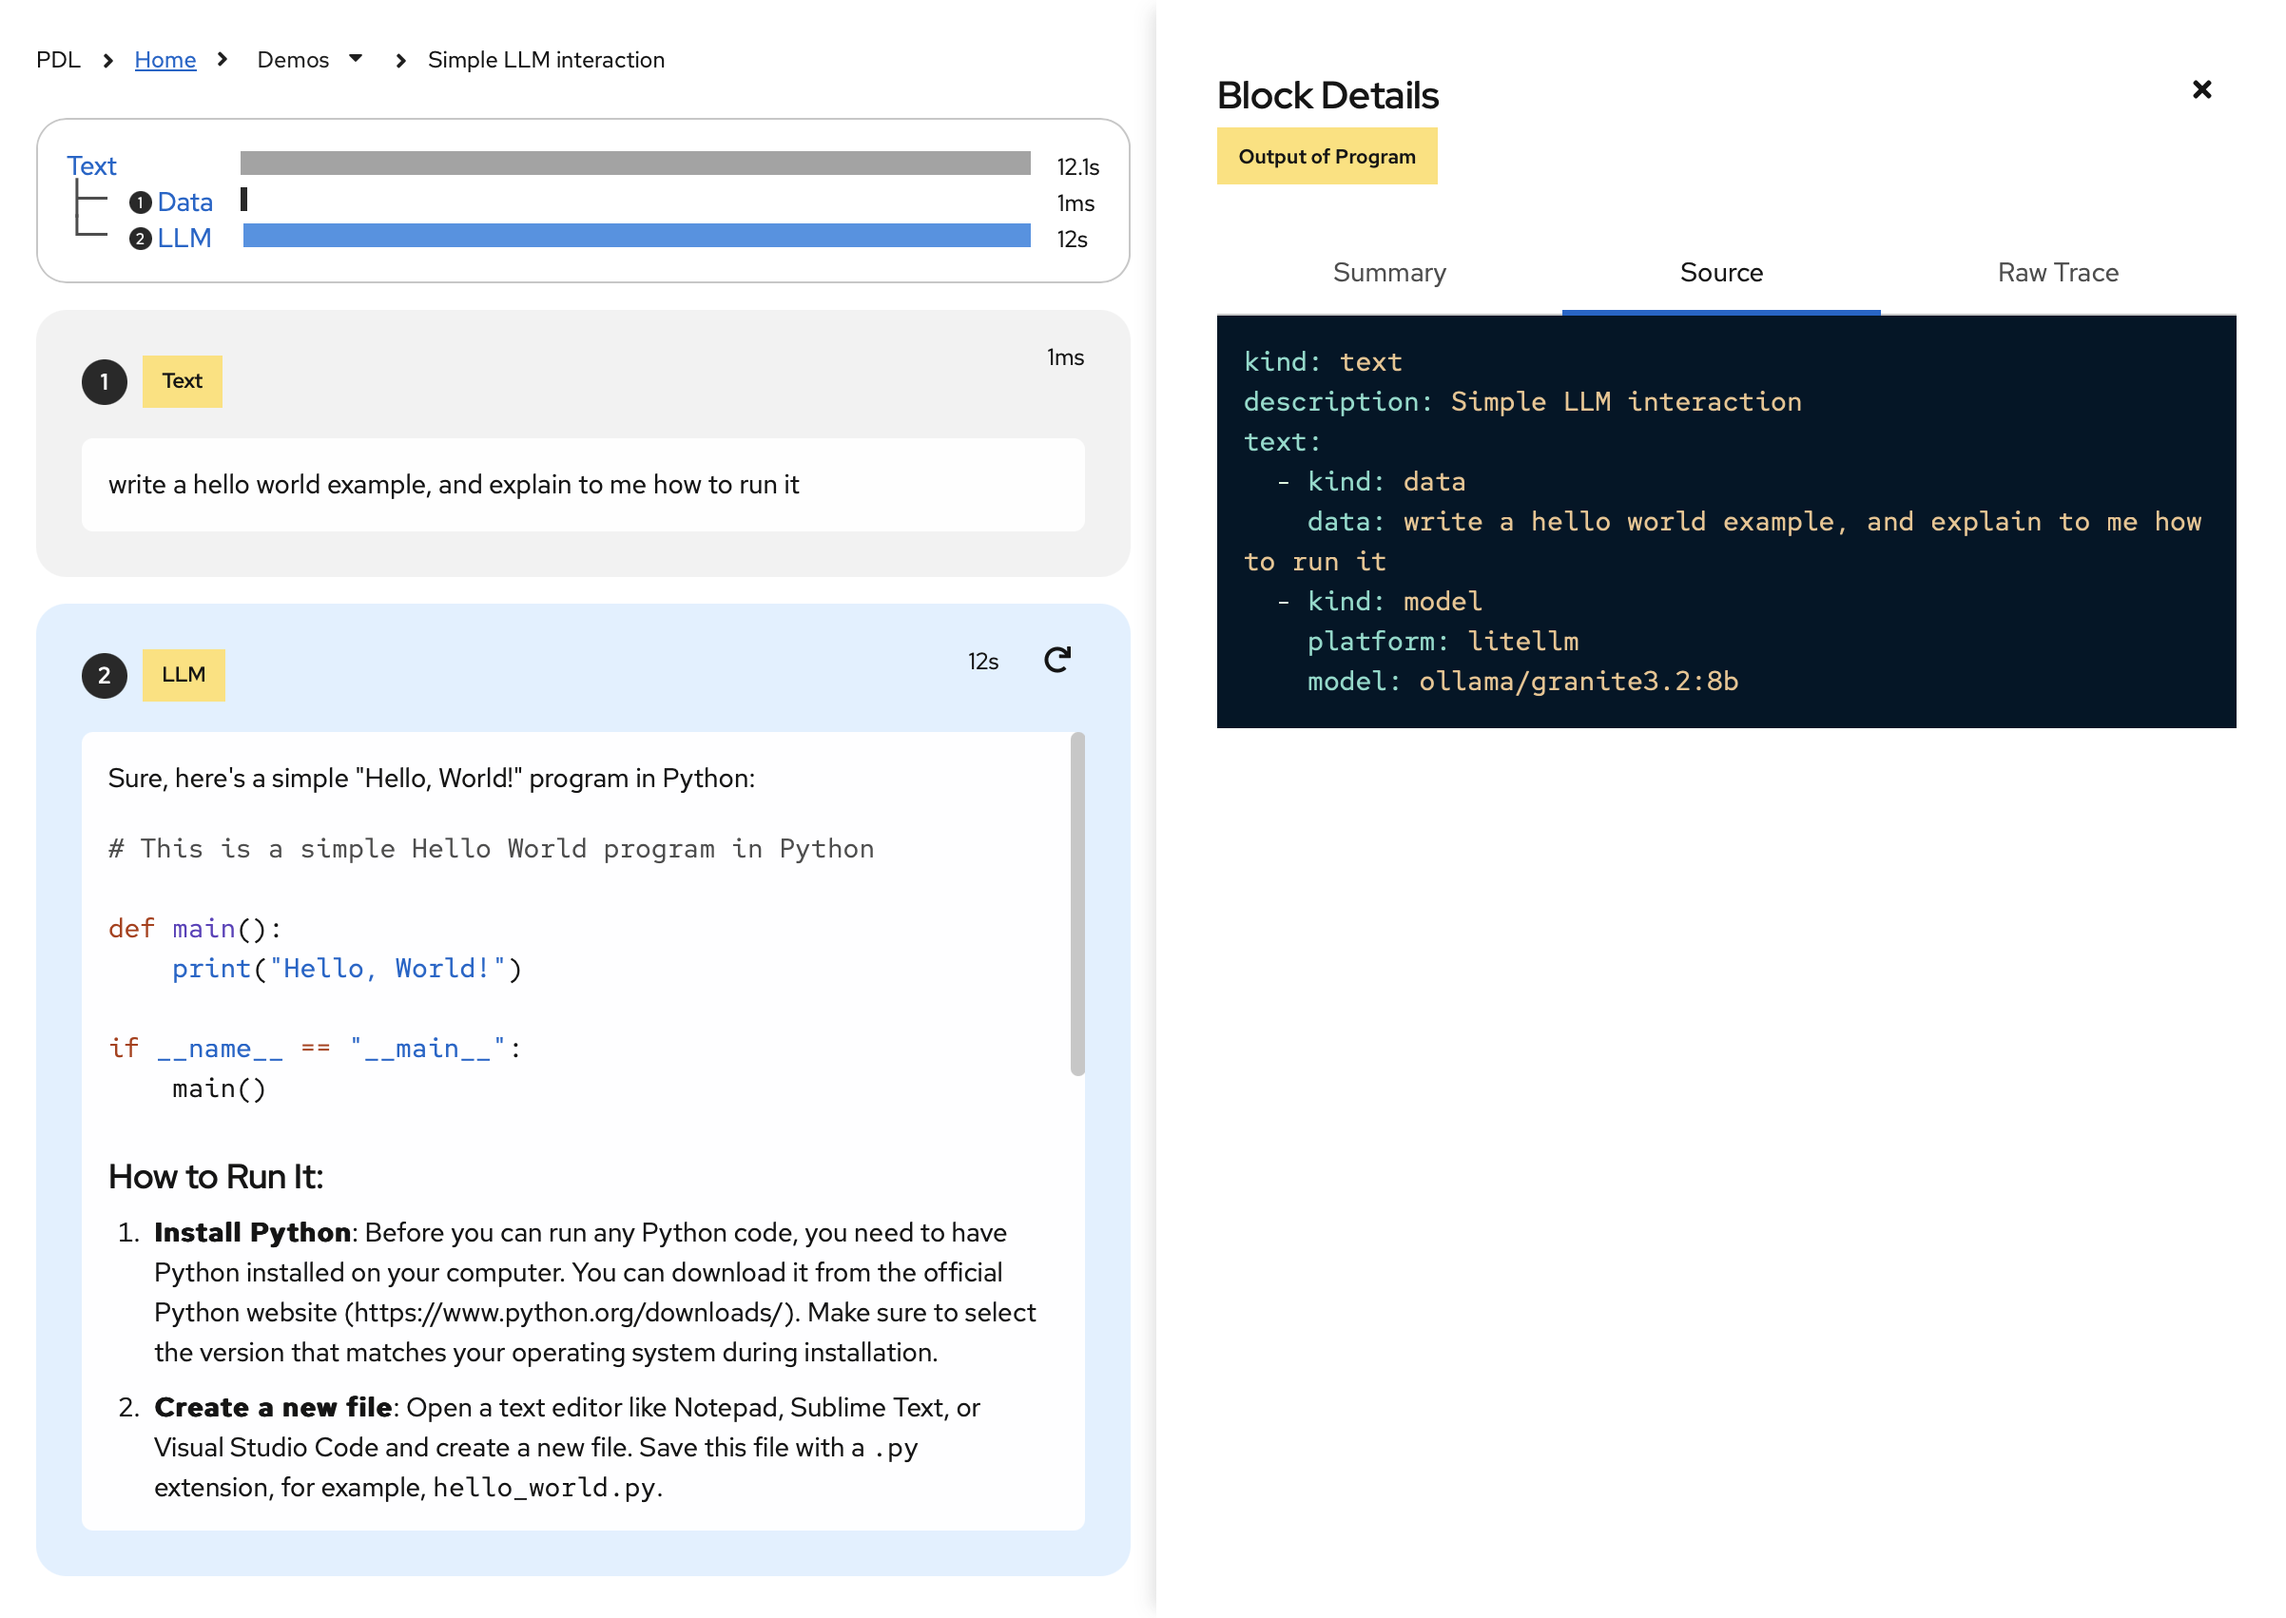
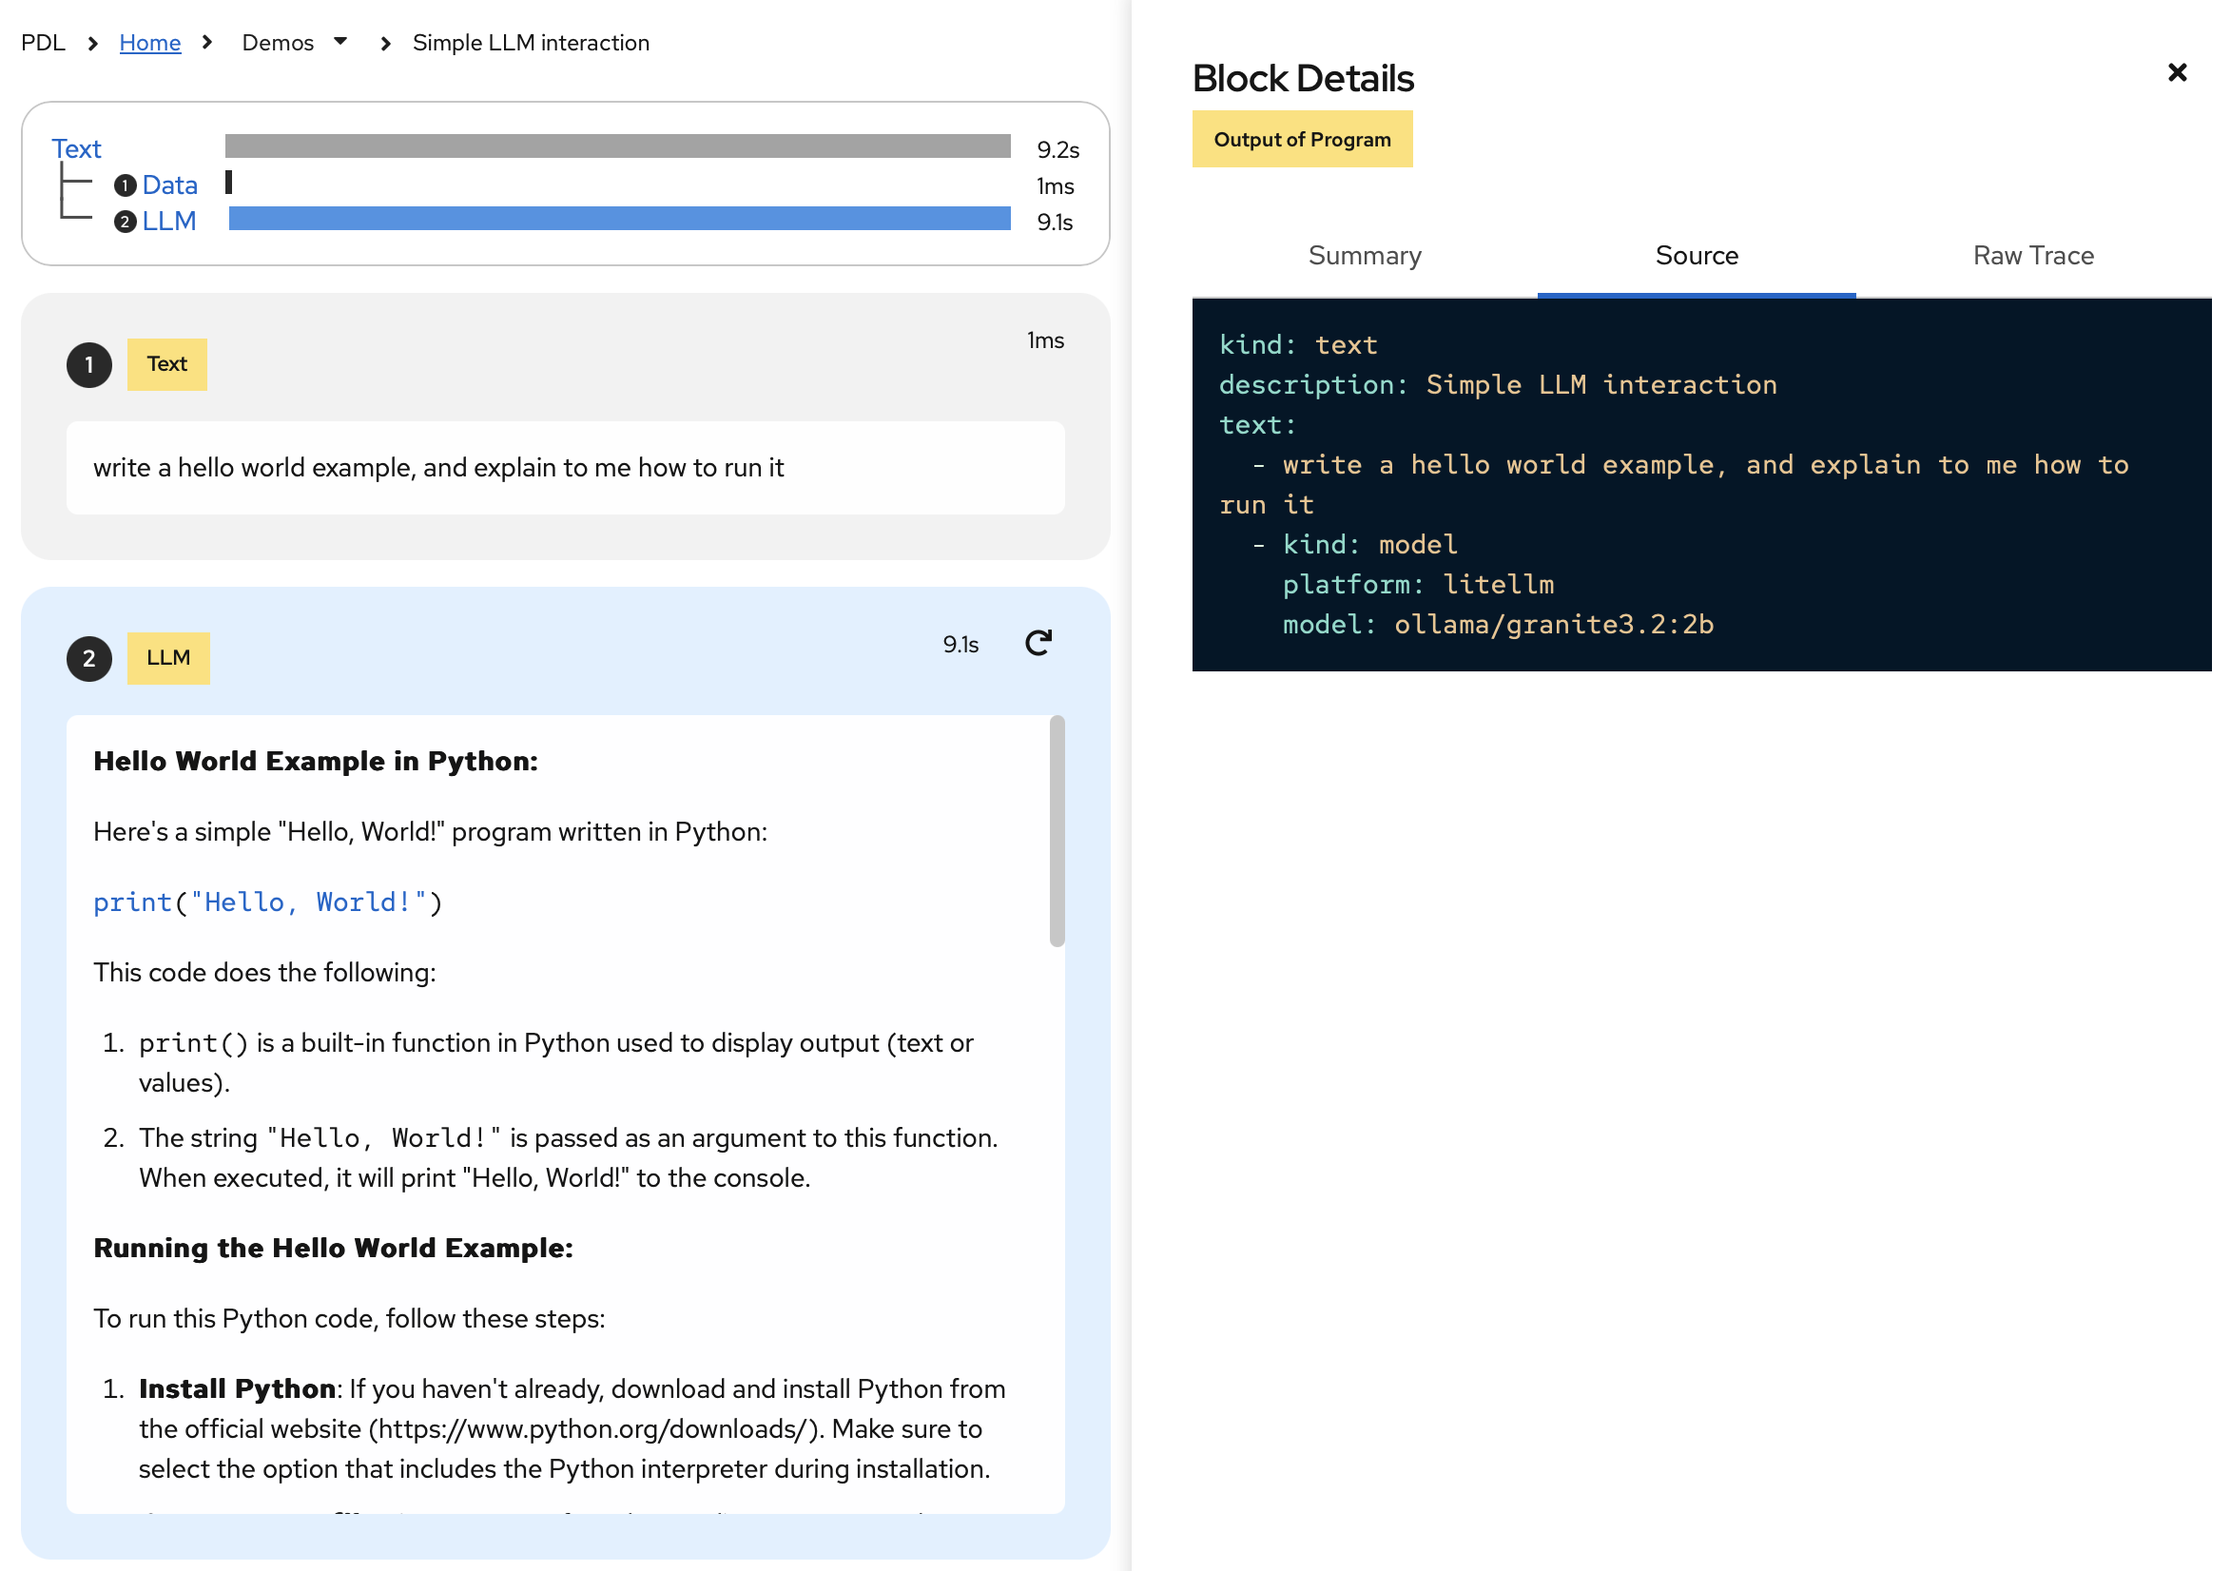
fix: simplify ui Source tab for literal data blocks

diff --git a/pdl-live-react/src/pdl_ast_utils.ts b/pdl-live-react/src/pdl_ast_utils.ts
@@ -55,6 +55,10 @@ export function map_block_children(
       return { ...block, code: code }
     })
     .with({ kind: "get" }, (block) => block)
+    .with(
+      { kind: "data", data: P.union(P.number, P.boolean, P.string) },
+      ({ data }) => data, // { kind: "data", data: "hello" } -> "hello"
+    )
     .with({ kind: "data" }, (block) => block)
     .with({ kind: "text" }, (block) => {
       let text
